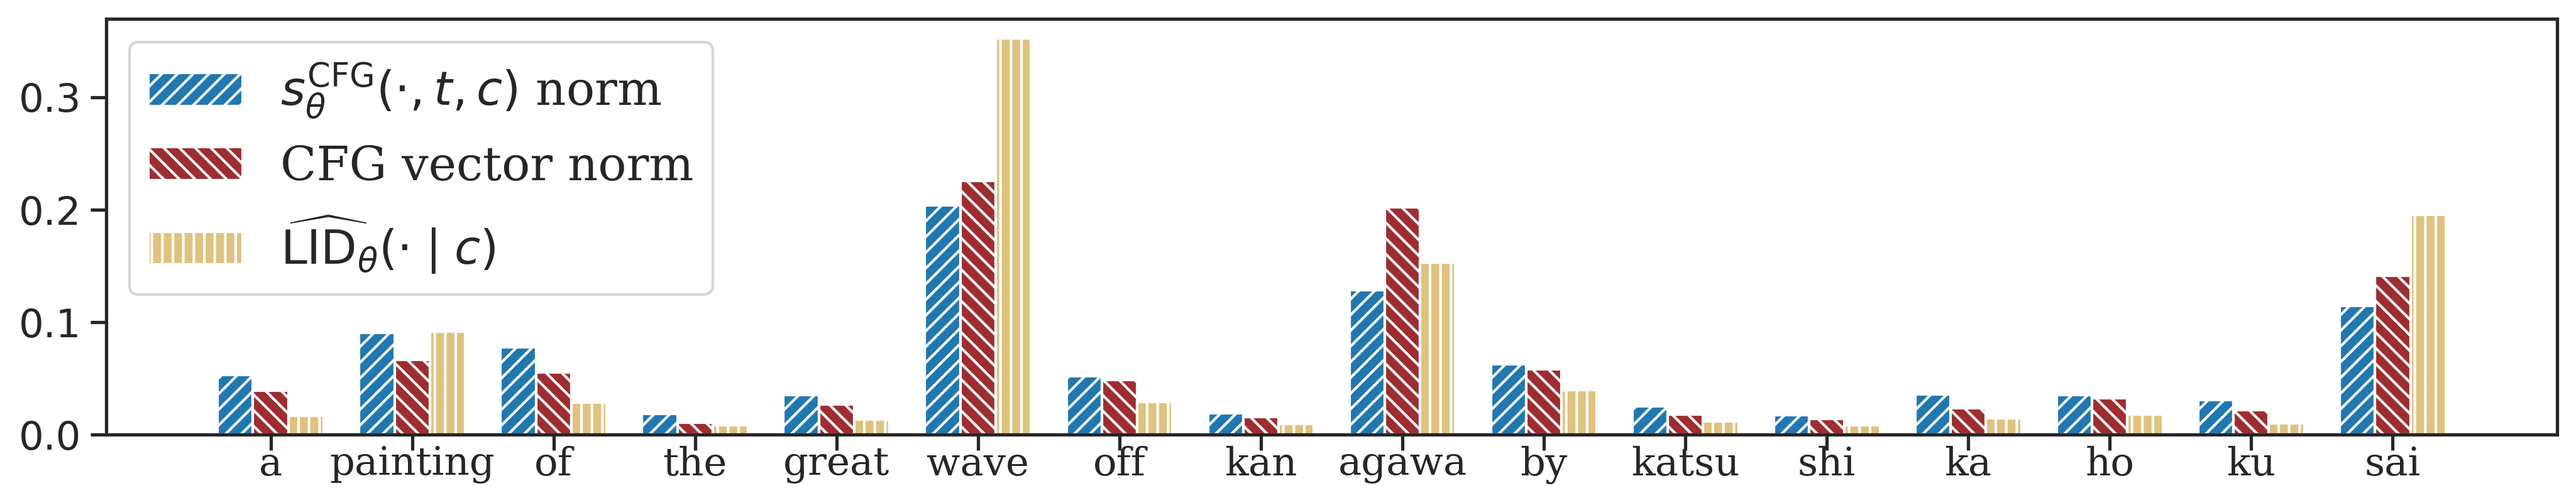
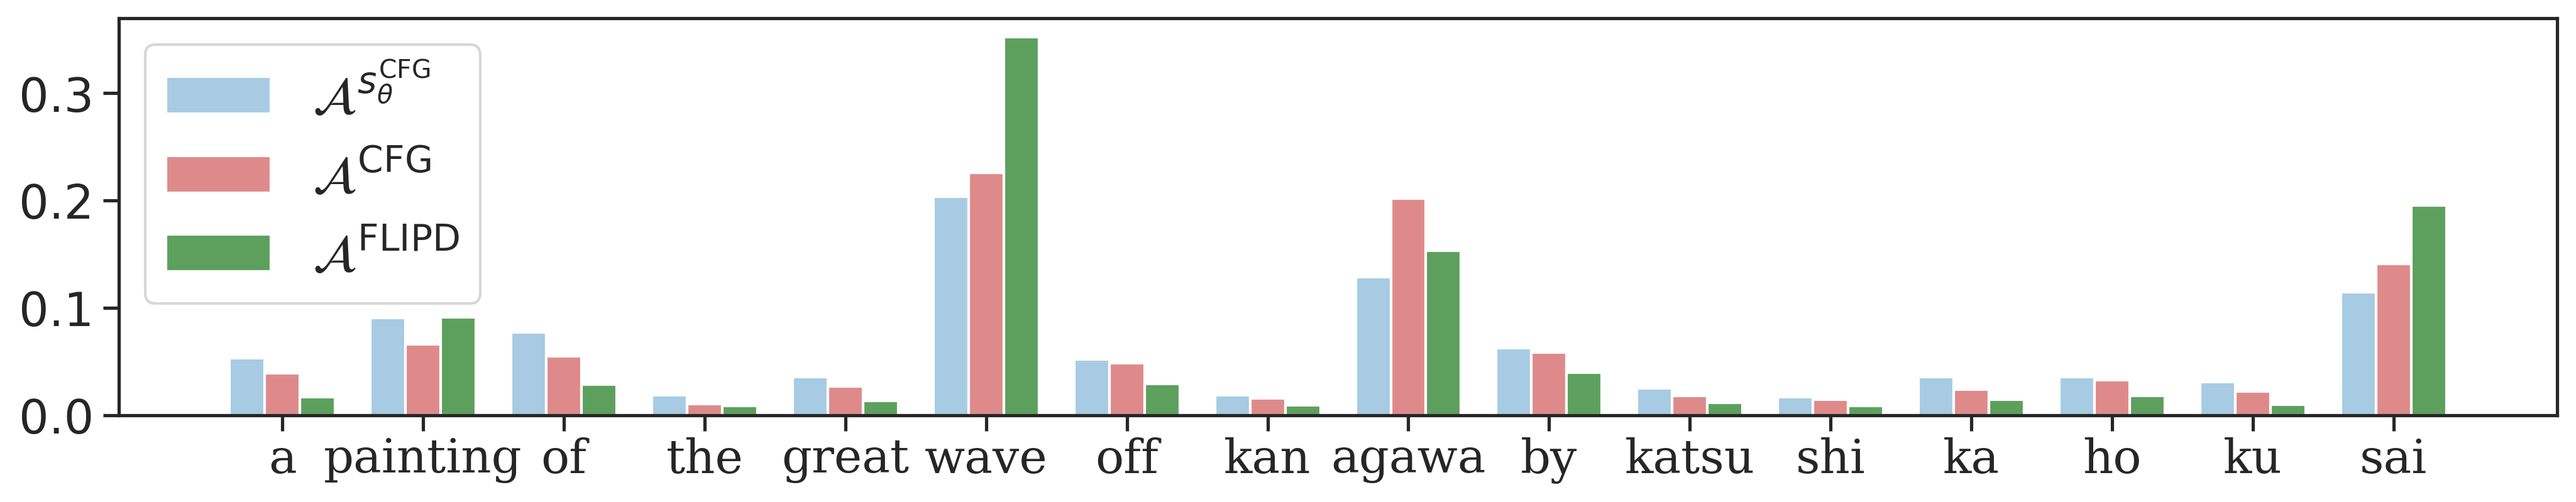
update token attribution plots

Changed region(s): [[0.0, 0.03, 0.9995, 0.9612]]

diff --git a/local_sd_pipeline.py b/local_sd_pipeline.py
@@ -7,6 +7,7 @@ from diffusers.utils import randn_tensor
 from diffusers.pipelines.stable_diffusion import StableDiffusionPipelineOutput
 from diffusers.schedulers import DDIMScheduler
 from flipd_utils import compute_trace_of_jacobian
+import math
 
 # credit: https://stackoverflow.com/questions/67370107/how-to-sample-similar-vectors-given-a-vector-and-cosine-similarity-in-pytorch
 def torch_cos_sim(v, cos_theta, n_vectors=1, EXACT=True):
@@ -426,6 +427,7 @@ class LocalStableDiffusionPipeline(StableDiffusionPipeline):
                     noise_pred_text = noise_pred_text - noise_pred_uncond
                     
                     if method == "score_norm":
+                        alpha_bar = self.scheduler.alphas_cumprod[t]
                         loss = torch.norm(noise_pred_uncond + guidance_scale * noise_pred_text, p=2).mean()
                         (token_grads,) = torch.autograd.grad(loss, [prompt_embeds])
                     elif method == "cfg_norm":
@@ -662,7 +664,8 @@ class LocalStableDiffusionPipeline(StableDiffusionPipeline):
 
                         
                         if method == "score_norm":
-                            loss = torch.norm(noise_pred_uncond + guidance_scale * noise_pred_text, p=2).mean()
+                            alpha_bar = self.scheduler.alphas_cumprod[t]
+                            loss = torch.norm(noise_pred_uncond + guidance_scale * noise_pred_text, p=2).mean() / (1 - alpha_bar)
                         elif method == "cfg_norm":
                             loss = torch.norm(noise_pred_text, p=2).mean()
                         elif method == "flipd":
@@ -676,6 +679,7 @@ class LocalStableDiffusionPipeline(StableDiffusionPipeline):
                                     return_dict=False,
                                 )[0].chunk(2)
                                 return noise_pred_uncond + guidance_scale * (noise_pred_text - noise_uncond)
+                            tweedie_estimate = latents + (noise_pred_uncond + guidance_scale * noise_pred_text) * (1 - alpha_bar)
                             flipd_trace_term = compute_trace_of_jacobian(
                                 score_fn,
                                 x=latents,

diff --git a/visualization/histograms.py b/visualization/histograms.py
@@ -29,6 +29,7 @@ def plot_bars_raw(
     legend_loc: Optional[str] = None,
     clear_ylabel: bool = False,
     clear_yticks: bool = False,
+    no_hashlines: bool = False,
 ):
     """
     Creates a barplot with the x-axis labelled according to x_values. 
@@ -59,7 +60,7 @@ def plot_bars_raw(
             width=bar_width,
             color=color,
             label=label,
-            hatch=hashlines[i % len(hashlines)]  # Apply hatch pattern
+            hatch=hashlines[(i + 3) % len(hashlines)] if not no_hashlines else None,  # Apply hatch pattern
         )
 
     if y_label:
@@ -118,6 +119,7 @@ def plot_kde_raw(
     clear_ylabel: bool = False,
     clear_yticks: bool = False,
     show_scale: bool = True,
+    no_hashlines: bool = False,
 ):
     """
     Plots KDE for given data.
@@ -141,7 +143,7 @@ def plot_kde_raw(
     idx = 0
     for x, label, color in zip(x_values, labels, colors):
         density = sns.kdeplot(x, bw_adjust=0.5, color=color).get_lines()[-1].get_data()
-        ax.fill_between(density[0], 0, density[1] , color=color, label=label, alpha=0.5, hatch=hashlines[idx % len(hashlines)])
+        ax.fill_between(density[0], 0, density[1] , color=color, label=label, alpha=0.5, hatch=hashlines[idx % len(hashlines)] if not no_hashlines else None)
         idx += 1
     
     y_label = y_label or 'Density'
